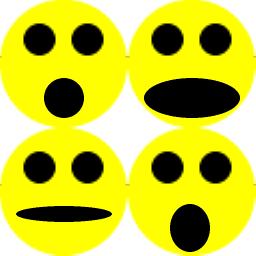
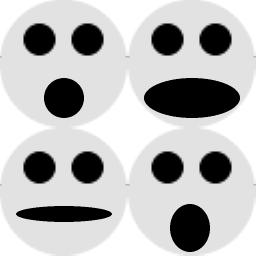
Sprite sample now with tinting.

diff --git a/samples/Sprites/SpritesSample.cs b/samples/Sprites/SpritesSample.cs
@@ -28,7 +28,7 @@ namespace Sprites
 
         private int _spriteCount = 0;
         private Vector3[] _vertPositions = new Vector3[MaxSpriteCount * VertsPerSprite];
-        private Vector3[] _vertColors = new Vector3[MaxSpriteCount * VertsPerSprite];
+        private Vector4[] _vertColors = new Vector4[MaxSpriteCount * VertsPerSprite];
         private Vector2[] _vertTexCoords = new Vector2[MaxSpriteCount * VertsPerSprite];
 
         public static void Main(string[] args)
@@ -101,10 +101,10 @@ namespace Sprites
         {
             string vertShader =
 @"attribute vec3 vertPosition;
-attribute vec3 vertColor;
+attribute vec4 vertColor;
 attribute vec2 vertTexCoord;
 
-varying vec3 fragColor;
+varying vec4 fragColor;
 varying vec2 fragTexCoord;
 
 uniform mat4 vertTransform; 
@@ -119,14 +119,14 @@ void main()
             string fragShader =
 @"precision mediump float;
 
-varying vec3 fragColor;
+varying vec4 fragColor;
 varying vec2 fragTexCoord;
 
 uniform sampler2D fragTexture;
 
 void main()
 {
-    gl_FragColor = texture2D(fragTexture, fragTexCoord);
+    gl_FragColor = fragColor * texture2D(fragTexture, fragTexCoord);
 }";
 
             uint vertexShader = CompileShader(vertShader, GL_VERTEX_SHADER);
@@ -173,7 +173,8 @@ void main()
             int srcX,
             int srcY,
             int srcWidth,
-            int srcHeight)
+            int srcHeight,
+            Vector4 color)
         {
             var spriteVertPositions = new Vector3[]
             {
@@ -196,25 +197,25 @@ void main()
                     VertsPerSprite * sizeof(Vector3));
             }
 
-            var spriteVertColors = new Vector3[]
+            var spriteVertColors = new Vector4[]
             {
-                new Vector3(1.0f, 1.0f, 1.0f),
-                new Vector3(1.0f, 1.0f, 1.0f),
-                new Vector3(1.0f, 1.0f, 1.0f),
+                color,
+                color,
+                color,
 
-                new Vector3(1.0f, 1.0f, 1.0f),
-                new Vector3(1.0f, 1.0f, 1.0f),
-                new Vector3(1.0f, 1.0f, 1.0f)
+                color,
+                color,
+                color,
             };
 
-            fixed (Vector3* srcPtr = spriteVertColors)
-            fixed (Vector3* destPtr = _vertColors)
+            fixed (Vector4* srcPtr = spriteVertColors)
+            fixed (Vector4* destPtr = _vertColors)
             {
                 Buffer.MemoryCopy(
                     srcPtr,
                     destPtr + (_spriteCount * VertsPerSprite),
-                    VertsPerSprite * sizeof(Vector3),
-                    VertsPerSprite * sizeof(Vector3));
+                    VertsPerSprite * sizeof(Vector4),
+                    VertsPerSprite * sizeof(Vector4));
             }
 
             var spriteVertTexCoords = new Vector2[]
@@ -262,10 +263,10 @@ void main()
             };
 
             _spriteCount = 0;
-            AddSprite(new Vector2(0, 0), new Vector2(128, 128), 0, 0, 128, 128);
-            AddSprite(new Vector2(128, 0), new Vector2(128, 128), 128, 0, 128, 128);
-            AddSprite(new Vector2(0, 128), new Vector2(128, 128), 0, 128, 128, 128);
-            AddSprite(new Vector2(128, 128), new Vector2(128, 128), 128, 128, 128, 128);
+            AddSprite(new Vector2(0, 0), new Vector2(128, 128), 0, 0, 128, 128, new Vector4(1.0f, 0.0f, 0.0f, 1.0f));
+            AddSprite(new Vector2(128, 0), new Vector2(128, 128), 128, 0, 128, 128, new Vector4(0.0f, 1.0f, 0.0f, 1.0f));
+            AddSprite(new Vector2(0, 128), new Vector2(128, 128), 0, 128, 128, 128, new Vector4(0.0f, 0.0f, 1.0f, 1.0f));
+            AddSprite(new Vector2(128, 128), new Vector2(128, 128), 128, 128, 128, 128, new Vector4(1.0f, 0.0f, 1.0f, 1.0f));
 
             glViewport(0, 0, WindowWidth, WindowHeight);
             glClear(GL_COLOR_BUFFER_BIT);
@@ -281,7 +282,7 @@ void main()
 
             fixed (void* vertColorsPtr = _vertColors)
             {
-                glVertexAttribPointer(1, 3, GL_FLOAT, false, 0, vertColorsPtr);
+                glVertexAttribPointer(1, 4, GL_FLOAT, false, 0, vertColorsPtr);
             }
 
             glEnableVertexAttribArray(1);
